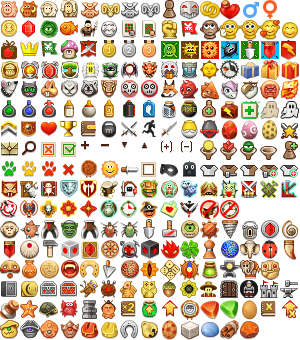
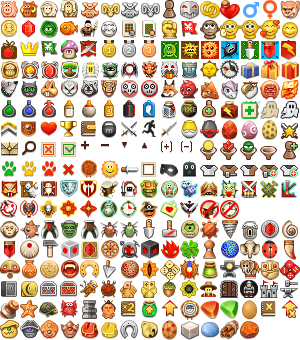
добавлен полёт в малое путешествие; обновлен ico.png

Changed region(s): [[0.93, 0.7647, 1.0, 0.8235], [0.93, 0.0, 1.0, 0.0588]]

diff --git a/src/parsers/page_game_incubator.cpp b/src/parsers/page_game_incubator.cpp
@@ -199,6 +199,51 @@ QString Page_Game_Incubator::Tab_Action_Boxgame::toString() const {
 // doXXXXX
 ////////////////////////////////////////////////////////////////////////////
 
+bool Page_Game_Incubator::doStartSmallJourney(int duration10) {
+    if (!fa_events0.valid) {
+        qCritical("doStartSmallJourney() on invalid tab");
+        return false;
+    }
+    submit = QWebElement();
+
+    foreach (QWebElement form, document.findAll("DIV#flying_block FORM")) {
+        if (form.findFirst("INPUT[name=do_cmd]").attribute("value") == "do_small") {
+
+            submit = form.findFirst("INPUT[type=submit]");
+
+            if (submit.isNull()) {
+                qCritical("start-button not found");
+                return false;
+            }
+
+            QWebElement selectedOpt;
+            QString s10 = QString::number(duration10 * 10);
+            foreach (QWebElement opt, form.findAll("SELECT[name=watch_time] OPTION")) {
+                if (duration10 <= 0) {
+                    selectedOpt = opt;
+                    continue;
+                }
+                if (opt.attribute("value").trimmed() == s10) {
+                    selectedOpt = opt;
+                    break;
+                }
+            }
+            if (selectedOpt.isNull()) {
+                qCritical("select not found");
+                return false;
+            }
+            selectedOpt.evaluateJavaScript("this.selected = true;");
+            qWarning("Запускаю летуна в малое путешествие на %s минут",
+                     qPrintable(selectedOpt.attribute("value").trimmed()));
+            pressSubmit();
+            return true;
+        }
+    }
+    qCritical("small journey form not found");
+    return false;
+}
+
+
 bool Page_Game_Incubator::doStartBigJourney() {
     if (!fa_events0.valid) {
         qCritical("doStartBigJourney() on invalid tab");

diff --git a/src/bot/workflyingbreeding.cpp b/src/bot/workflyingbreeding.cpp
@@ -14,6 +14,10 @@ void WorkFlyingBreeding::configure(Config *config) {
     Work::configure(config);
     _min_timegap = config->get("Work_FlyingBreeding/min_timegap", false, 5).toInt();
     _max_timegap = config->get("Work_FlyingBreeding/max_timegap", false, 300).toInt();
+    _use_small_journey = config->get("Work_FlyingBreeding/use_small_journey",
+                                     false, false).toBool();
+    _duration10 = config->get("Work_FlyingBreeding/duration10",
+                              false, 0).toInt();
     setNextTimegap();
 }
 
@@ -106,6 +110,22 @@ bool WorkFlyingBreeding::processPage(const Page_Game *gpage) {
     }
 
     if (p->fa_events0.valid) {
+        if (_use_small_journey) {
+            if (p->fa_events0.minutesleft > 0 &&
+                p->fa_events0.minutesleft >= _duration10) {
+                qDebug("запустим по маленькому");
+                setAwaiting();
+                if (!p->doStartSmallJourney(_duration10)) {
+                    qCritical(u8("не выщло по маленькому. запретим на будущее"));
+                    _use_small_journey = false;
+                    _bot->GoToNeutralUrl();
+                    return false;
+                }
+                qDebug("ожидаем результатов.");
+                return true;
+            }
+        }
+//        if (_use_big_journey) {
         qDebug("запускаем далеко и надолго.");
         setAwaiting();
         if (!p->doStartBigJourney()) {
@@ -115,6 +135,7 @@ bool WorkFlyingBreeding::processPage(const Page_Game *gpage) {
         }
         qDebug("ожидаем результатов.");
         return true;
+//      }
     }
     qDebug("тут нам больше делать нечего. перейдём на другую страничку");
     setAwaiting();

diff --git a/src/bot/workflyingbreeding.h b/src/bot/workflyingbreeding.h
@@ -11,9 +11,41 @@ protected:
 
     QDateTime _cooldown;
 
-    int _min_timegap;
-    int _max_timegap;
-    int _next_timegap;
+    int     _min_timegap;
+    int     _max_timegap;
+    int     _next_timegap;
+
+    bool    _use_small_journey;
+    bool    _use_big_journey;
+    bool    _duration10;
+
+    bool    _do_training;
+    bool    _do_feeding;
+    bool    _do_powerups;
+
+    bool    _use_powerup_strength;
+    bool    _use_powerup_block;
+    bool    _use_powerup_dexterity;
+    bool    _use_powerup_endurance;
+    bool    _use_powerup_charisma;
+    bool    _use_powerup_goldbag;
+    bool    _use_powerup_redbag;
+    bool    _use_powerup_bell;
+    bool    _use_powerup_clower;
+
+    QDateTime    _pit_strength;
+    QDateTime    _pit_block;
+    QDateTime    _pit_dexterity;
+    QDateTime    _pit_endurance;
+    QDateTime    _pit_charisma;
+    QDateTime    _pit_goldbag;
+    QDateTime    _pit_redbag;
+    QDateTime    _pit_bell;
+    QDateTime    _pit_clower;
+
+    bool    _use_food_crystals;
+    bool    _use_food_peasants;
+
 
     bool GoToIncubator();
 

diff --git a/src/parsers/page_game_incubator.h b/src/parsers/page_game_incubator.h
@@ -129,6 +129,7 @@ public:
 
     void reparse();
 
+    bool doStartSmallJourney(int duration10);
     bool doStartBigJourney();
     bool doSelectBox(int boxNo = -1);
     bool doFinishGame();
